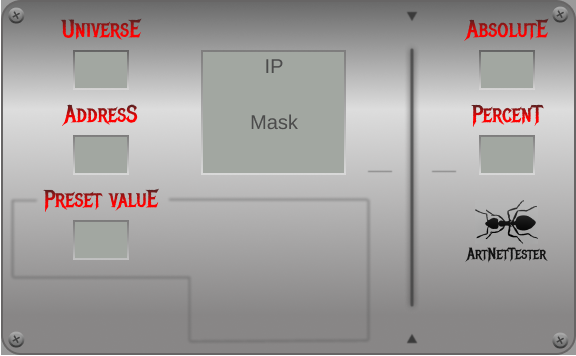
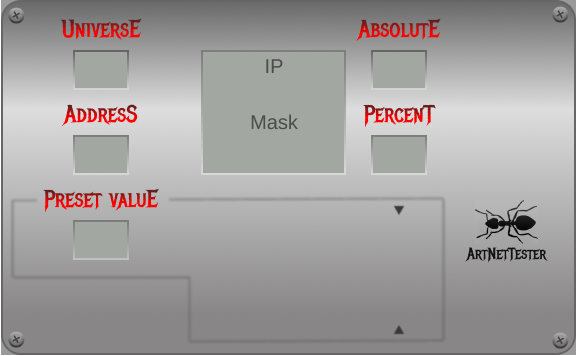
обновлен стиль главного окна, scale заменен на intesive wheel

diff --git a/widgets/custom_widgets.py b/widgets/custom_widgets.py
@@ -1,44 +1,16 @@
-import tkinter
 from tkinter import *
 from methods import Methods
 
 
 class CustomFader(Label, Methods):
-    def __init__(self, master, picture: str, atr=None, x=None, y=None, lnght=None, *args,**kward):
-        super().__init__(master, *args, **kward)
+    def __init__(self, master, picture: str, atr=None, x=None, y=None, *args, **kwargs):
+        super().__init__(master, *args, **kwargs)
         self.atr = atr
         self.x = x
         self.y = y
-        self.lnght = lnght
+        self.start = self.y + 55
         self.img1 = PhotoImage(file=f'pic//{picture}.png')
         self.img2 = PhotoImage(file=f'pic//{picture}2.png')
-        self.create()
-
-    def create(self):
-        self.master.undr = Scale(self.master, foreground='#4D4C4C', bg='#4D4C4C', from_=255, to=0, length=self.lnght+30, command=self.scl_val, showvalue='0', border=1)
-        self.master.undr.place(x=self.x+10, y=self.y-self.lnght+10)
-    #     self.master.cvr = Label(self.master, image=self.img1, border=0, highlightthickness=0)
-    #     self.master.cvr.place(x=self.x, y=self.y - self.master.scale_value)
-    #     self.master.cvr.bind('<B1-Motion>', self.drag)
-    #
-        pass
-    #
-    # def drag(self, event):
-    #     # print(15-event.y)
-    #     self.master.scale_value = max(0, min(-(self.master.cvr.winfo_pointery() - self.master.cvr.winfo_rooty()), 255))
-    #     self.master.after(100, self.master.cvr.place(y=self.y - self.master.scale_value))
-    #     # self.master.undr.set(self.master.scale_value)
-    #
-    #     print(self.master.cvr.winfo_pointery() - self.master.cvr.winfo_rooty())
-
-
-
-class CustomButton(CustomFader):
-    def __init__(self, master, function=None, function_2=None, operator: str = None, *args, **kward):
-        super().__init__(master, *args, **kward)
-        self.function = function
-        self.function_2 = function_2
-        self.operator = operator
         self.configure(image=self.img1, border=0)
         self.create()
         self.binding()
@@ -47,11 +19,39 @@ class CustomButton(CustomFader):
         self.place(x=self.x, y=self.y)
 
     def binding(self):
+        self.bind('<Button-1>', self.coord)
+        self.bind('<B1-Motion>', self.button1_func)
+
+    def button1_func(self, event):
+        self.master.scale_value = max(0, min(-(event.y - self.start), 255))
+        if self.master.scale_value % 2 == 0:
+            self.configure(image=self.img1)
+        else:
+            self.configure(image=self.img2)
+
+    def coord(self, event):
+        self.start = event.y + self.master.scale_value
+
+
+class CustomButton(CustomFader):
+    def __init__(self, master, function=None, function_2=None, operator: str = None, **kwargs):
+        super().__init__(master, **kwargs)
+        self.function = function
+        self.function_2 = function_2
+        self.operator = operator
+        if self.function_2 is not None:
+            self.bind_2()
+
+    def create(self):
+        self.place(x=self.x, y=self.y)
+
+    def binding(self):
         self.bind('<Button-1>', self.button1_func)
         self.bind('<ButtonRelease-1>', lambda event: self.configure(image=self.img1))
-        if self.function_2 is not None:
-            self.bind('<Button-3>', self.button2_func)
-            self.bind('<ButtonRelease-3>', lambda event: self.configure(image=self.img1))
+
+    def bind_2(self):
+        self.bind('<Button-3>', self.button2_func)
+        self.bind('<ButtonRelease-3>', lambda event: self.configure(image=self.img1))
 
     def button1_func(self, event):
         self.configure(image=self.img2)

diff --git a/widgets/app.py b/widgets/app.py
@@ -8,11 +8,10 @@ class Window(Toplevel):
     def __init__(self, master=None):
         super().__init__(master)
         self.name = 'settings'
-        self.title('Ethernet settings')
         self.geometry('403x251+400+380')
         self.resizable(False, False)
         self.bg_img = PhotoImage(file='pic//bg_set.png')
-        Label(self, image=self.bg_img).pack()
+        Label(self, image=self.bg_img, border=0).pack()
         self.dif_x = 0
         self.dif_y = 0
         self.overrideredirect(True)
@@ -28,13 +27,12 @@ class App(Tk):
     def __init__(self):
         super().__init__()
         self.name = 'app'
-        self.title('ANT v 1.0')
         self.geometry('575x355+300+300')
         self.resizable(False, False)
         self.overrideredirect(True)
         self.wm_attributes('-topmost', True)
         self.bg_im = PhotoImage(file='pic//win.png')
-        Label(self, image=self.bg_im).pack()
+        Label(self, image=self.bg_im, border=0).pack()
         self.set_win = None
         self._universe = 1
         self._address = 1
@@ -53,15 +51,15 @@ class App(Tk):
 
     def create_widgets(self):
         self.universe_label.config(text='{:03d}'.format(self._universe))
-        self.universe_label.place(x=74, y=52)
+        self.universe_label.place(x=75, y=52)
         self.address_label.config(text='{:03d}'.format(self._address))
-        self.address_label.place(x=74, y=137)
+        self.address_label.place(x=75, y=137)
         self.value_label.config(text='{:03d}'.format(self._value))
-        self.value_label.place(x=74, y=222)
+        self.value_label.place(x=75, y=222)
         self.scale_value_label.config(text='{:03d}'.format(int(self._scale_value)))
-        self.scale_value_label.place(x=480, y=52)
+        self.scale_value_label.place(x=373, y=52)
         self.percent_label.config(text='{:03d}'.format(int(self._scale_value // 2.55)))
-        self.percent_label.place(x=480, y=137)
+        self.percent_label.place(x=373, y=137)
         CustomButton(self, picture='unv_up', function='unv_one', function_2='unv_ten', operator='+', x=132, y=50)
         CustomButton(self, picture='unv_dwn', function='unv_one', function_2='unv_ten', operator='-', x=25, y=50)
         CustomButton(self, picture='adr_up', function='adr_one', function_2='adr_ten', operator='+', x=132, y=135)
@@ -74,11 +72,11 @@ class App(Tk):
         CustomButton(self, picture='ful', function='full', x=273, y=290)
         CustomButton(self, picture='sets', function='settings', x=461, y=290)
         CustomButton(self, picture='pow', function='close', x=511, y=290)
-        CustomFader(self, picture='fdr', atr='scale_value', x=391, y=280, lnght=255)
+        CustomFader(self, picture='rol', atr='scale_value', x=370, y=215)
         pass
 
     def create_set_win(self):
-        self.set_win = Window(self)
+        Window(self)
 
     @property
     def universe(self):

diff --git a/widgets/methods.py b/widgets/methods.py
@@ -59,7 +59,6 @@ class Methods:
 
     def set_val(self):
         self.master.scale_value = self.master.value
-        self.master.undr.set(self.master.scale_value)
         self.master.data.universe = self.master.universe - 1
         self.master.data.send({self.master.address: self.master.scale_value})
         if self.master.scale_value == 0:
@@ -74,7 +73,6 @@ class Methods:
         self.master.value = 0
         self.zero()
         self.master.data.universe = self.master.universe - 1
-        self.master.data.universe = self.master.universe - 1
         for adr in self.master.not_null_value_address:
             self.master.data.send({adr: 0})
         self.master.not_null_value_address.clear()
@@ -82,7 +80,7 @@ class Methods:
 
     def zero(self):
         self.master.scale_value = 0
-        self.master.undr.set(0)
+        # self.master.undr.set(0)
         self.master.data.universe = self.master.universe - 1
         self.master.data.send({self.master.address: self.master.scale_value})
         self.master.not_null_value_address.discard(self.master.address)
@@ -98,7 +96,6 @@ class Methods:
 
     def settings(self):
         self.master.after(200, self.master.create_set_win())
-
         pass
 
     def default(self):
